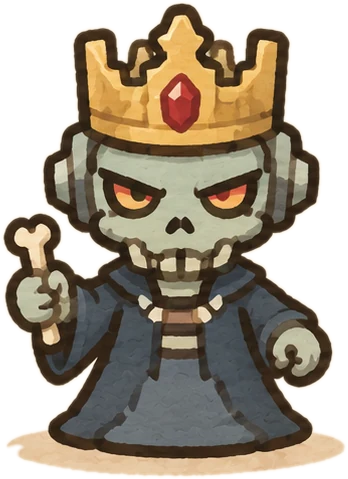
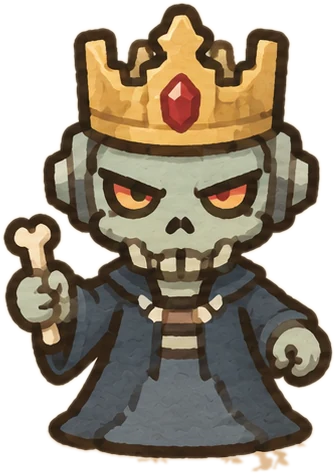
Site: bestiario mais limpo (uma fileira de pixel art, monstros sem sombra bege, menos espaco)
Claude-Session: https://claude.ai/code/session_01UuVMLphjp9wAN4kHUYy4Rb

diff --git a/index.html b/index.html
@@ -31,7 +31,7 @@
 <link rel="stylesheet" href="/fonts/fonts2.css">
 <link rel="stylesheet" href="/fonts/patrick-hand.css">
 <link rel="stylesheet" href="/site.css">
-<link rel="stylesheet" href="/home.css?v=51">
+<link rel="stylesheet" href="/home.css?v=52">
 <script type="application/ld+json">[{"@context": "https://schema.org", "@type": "SoftwareApplication", "name": "Dungeonlog", "applicationCategory": "LifestyleApplication", "operatingSystem": "Android", "description": "Todo dia aparece um monstro que só cai se você concluir as tarefas. Ganhe XP, moedas e equipamentos e suba de nível. Plano grátis, disponível no Android.", "inLanguage": "pt-BR", "url": "https://dungeonlog.weberlabs.com.br/", "image": "https://dungeonlog.weberlabs.com.br/img/og-pt.jpg", "offers": {"@type": "Offer", "price": "0", "priceCurrency": "BRL"}, "publisher": {"@type": "Organization", "name": "Weberlabs", "url": "https://dungeonlog.weberlabs.com.br/"}}, {"@context": "https://schema.org", "@type": "FAQPage", "mainEntity": [{"@type": "Question", "name": "O que é o Dungeonlog?", "acceptedAnswer": {"@type": "Answer", "text": "É um app de tarefas com tema de RPG. Você cria a lista do dia, e cada tarefa concluída rende XP, moedas e equipamentos para o seu herói. Todo dia há um monstro que só é derrotado quando todas as tarefas do dia estão concluídas."}}, {"@type": "Question", "name": "Como funciona o monstro do dia?", "acceptedAnswer": {"@type": "Answer", "text": "Cada dia aparece um monstro. Se você conclui todas as tarefas do dia, ele cai e você vence o dia. Se sobrar tarefa, ele foge e o dia não conta. É um jeito de transformar a lista em um desafio com começo, meio e fim."}}, {"@type": "Question", "name": "O Dungeonlog é grátis?", "acceptedAnswer": {"@type": "Answer", "text": "Há um plano gratuito e um plano PRO opcional. O plano gratuito tem limites em alguns recursos, como temas, estatísticas e quantidade de tarefas. O PRO libera tudo e custa R$ 17,90 por mês, R$ 89,90 por ano ou R$ 199,90 uma única vez (vitalício). O plano anual pode ter 7 dias de teste grátis pela Google Play."}}, {"@type": "Question", "name": "Em quais dispositivos funciona?", "acceptedAnswer": {"@type": "Answer", "text": "O app para Android está disponível na Google Play. Ainda não existe app nativo para iPhone."}}, {"@type": "Question", "name": "Como o Dungeonlog é diferente do Habitica?", "acceptedAnswer": {"@type": "Answer", "text": "O Habitica é um app consolidado e gratuito (com assinatura opcional), com grupos e missões em equipe. O Dungeonlog é mais simples e focado: um monstro por dia que depende de concluir as tarefas do dia, loja diária e visual em pixel art. Se você quer comunidade e missões em grupo, o Habitica pode servir melhor. Se quer algo direto, vale testar o Dungeonlog."}}, {"@type": "Question", "name": "Dá para usar para estudar?", "acceptedAnswer": {"@type": "Answer", "text": "Dá para organizar tarefas de estudo, como exercícios, revisões e leituras. Ele não é uma plataforma de conteúdo nem um cronograma de matérias: é um gerenciador de tarefas com recompensa."}}, {"@type": "Question", "name": "Preciso criar uma conta?", "acceptedAnswer": {"@type": "Answer", "text": "Não precisa. Você pode entrar como convidado e começar na hora, sem cadastro; nesse modo o progresso fica salvo só neste aparelho. Se criar uma conta com Google ou e-mail, o progresso fica guardado e funciona em mais de um aparelho, e o que você fez como convidado é levado para a conta. Você pode excluir sua conta e seus dados quando quiser."}}, {"@type": "Question", "name": "E os meus dados?", "acceptedAnswer": {"@type": "Answer", "text": "Veja a Política de Privacidade e os Termos de Uso abaixo. A página de exclusão de conta explica como apagar os seus dados."}}]}]</script>
 </head>
 <body>
@@ -96,10 +96,9 @@
 
 <section class="bestiary" aria-labelledby="bst">
   <div class="wrapL"><h2 id="bst">63 monstros esperando por você</h2><p class="sub">Um deles aparece a cada dia. Quanto mais você vence, mais do bestiário você descobre.</p></div>
-  <div class="bst-row" aria-hidden="true"><img src="/img/art/m-esqueleto.webp" width="348" height="479" alt="" loading="lazy" decoding="async"><img src="/img/art/m-mimico.webp" width="408" height="384" alt="" loading="lazy" decoding="async"><img src="/img/art/m-aranha.webp" width="437" height="477" alt="" loading="lazy" decoding="async"><img src="/img/art/m-goblin.webp" width="384" height="418" alt="" loading="lazy" decoding="async"><img src="/img/art/m-fantasma.webp" width="404" height="433" alt="" loading="lazy" decoding="async"></div>
+  <div class="bst-row" aria-hidden="true"><img src="/img/art/m-esqueleto.webp" width="336" height="474" alt="" loading="lazy" decoding="async"><img src="/img/art/m-mimico.webp" width="399" height="362" alt="" loading="lazy" decoding="async"><img src="/img/art/m-aranha.webp" width="437" height="465" alt="" loading="lazy" decoding="async"><img src="/img/art/m-goblin.webp" width="384" height="405" alt="" loading="lazy" decoding="async"><img src="/img/art/m-fantasma.webp" width="392" height="404" alt="" loading="lazy" decoding="async"></div>
   <p class="bst-cap wrapL" style="text-align:center">No app, eles aparecem em pixel art. Aqui, em desenho.</p>
   <div class="strip " aria-hidden="true"><div class="shift" data-sx="0.35"><div class="track "><i style="--i:21"></i><i style="--i:31"></i><i style="--i:20"></i><i style="--i:46"></i><i style="--i:8"></i><i style="--i:47"></i><i style="--i:41"></i><i style="--i:52"></i><i style="--i:26"></i><i style="--i:50"></i><i style="--i:13"></i><i style="--i:17"></i><i style="--i:58"></i><i style="--i:22"></i><i style="--i:53"></i><i style="--i:15"></i><i style="--i:42"></i><i style="--i:27"></i><i style="--i:16"></i><i style="--i:57"></i><i style="--i:18"></i><i style="--i:23"></i><i style="--i:60"></i><i style="--i:14"></i><i style="--i:24"></i><i style="--i:48"></i><i style="--i:43"></i><i style="--i:7"></i><i style="--i:36"></i><i style="--i:45"></i><i style="--i:1"></i><i style="--i:3"></i><i style="--i:4"></i><i style="--i:33"></i><i style="--i:0"></i><i style="--i:10"></i><i style="--i:44"></i><i style="--i:25"></i><i style="--i:38"></i><i style="--i:2"></i><i style="--i:34"></i><i style="--i:5"></i><i style="--i:9"></i><i style="--i:19"></i><i style="--i:56"></i><i style="--i:6"></i><i style="--i:51"></i><i style="--i:39"></i><i style="--i:40"></i><i style="--i:30"></i><i style="--i:61"></i><i style="--i:11"></i><i style="--i:12"></i><i style="--i:37"></i><i style="--i:59"></i><i style="--i:32"></i><i style="--i:62"></i><i style="--i:29"></i><i style="--i:49"></i><i style="--i:54"></i><i style="--i:35"></i><i style="--i:55"></i><i style="--i:28"></i><i style="--i:21"></i><i style="--i:31"></i><i style="--i:20"></i><i style="--i:46"></i><i style="--i:8"></i><i style="--i:47"></i><i style="--i:41"></i><i style="--i:52"></i><i style="--i:26"></i><i style="--i:50"></i><i style="--i:13"></i><i style="--i:17"></i><i style="--i:58"></i><i style="--i:22"></i><i style="--i:53"></i><i style="--i:15"></i><i style="--i:42"></i><i style="--i:27"></i><i style="--i:16"></i><i style="--i:57"></i><i style="--i:18"></i><i style="--i:23"></i><i style="--i:60"></i><i style="--i:14"></i><i style="--i:24"></i><i style="--i:48"></i><i style="--i:43"></i><i style="--i:7"></i><i style="--i:36"></i><i style="--i:45"></i><i style="--i:1"></i><i style="--i:3"></i><i style="--i:4"></i><i style="--i:33"></i><i style="--i:0"></i><i style="--i:10"></i><i style="--i:44"></i><i style="--i:25"></i><i style="--i:38"></i><i style="--i:2"></i><i style="--i:34"></i><i style="--i:5"></i><i style="--i:9"></i><i style="--i:19"></i><i style="--i:56"></i><i style="--i:6"></i><i style="--i:51"></i><i style="--i:39"></i><i style="--i:40"></i><i style="--i:30"></i><i style="--i:61"></i><i style="--i:11"></i><i style="--i:12"></i><i style="--i:37"></i><i style="--i:59"></i><i style="--i:32"></i><i style="--i:62"></i><i style="--i:29"></i><i style="--i:49"></i><i style="--i:54"></i><i style="--i:35"></i><i style="--i:55"></i><i style="--i:28"></i></div></div></div>
-  <div class="strip s2" aria-hidden="true"><div class="shift" data-sx="-0.35"><div class="track rev"><i style="--i:11"></i><i style="--i:28"></i><i style="--i:8"></i><i style="--i:29"></i><i style="--i:9"></i><i style="--i:23"></i><i style="--i:2"></i><i style="--i:32"></i><i style="--i:27"></i><i style="--i:47"></i><i style="--i:39"></i><i style="--i:50"></i><i style="--i:55"></i><i style="--i:10"></i><i style="--i:20"></i><i style="--i:45"></i><i style="--i:35"></i><i style="--i:16"></i><i style="--i:44"></i><i style="--i:56"></i><i style="--i:38"></i><i style="--i:34"></i><i style="--i:40"></i><i style="--i:15"></i><i style="--i:14"></i><i style="--i:51"></i><i style="--i:33"></i><i style="--i:46"></i><i style="--i:22"></i><i style="--i:31"></i><i style="--i:41"></i><i style="--i:7"></i><i style="--i:42"></i><i style="--i:59"></i><i style="--i:37"></i><i style="--i:19"></i><i style="--i:5"></i><i style="--i:21"></i><i style="--i:17"></i><i style="--i:12"></i><i style="--i:60"></i><i style="--i:52"></i><i style="--i:26"></i><i style="--i:57"></i><i style="--i:53"></i><i style="--i:30"></i><i style="--i:3"></i><i style="--i:48"></i><i style="--i:13"></i><i style="--i:0"></i><i style="--i:43"></i><i style="--i:62"></i><i style="--i:61"></i><i style="--i:24"></i><i style="--i:18"></i><i style="--i:54"></i><i style="--i:58"></i><i style="--i:25"></i><i style="--i:6"></i><i style="--i:49"></i><i style="--i:36"></i><i style="--i:4"></i><i style="--i:1"></i><i style="--i:11"></i><i style="--i:28"></i><i style="--i:8"></i><i style="--i:29"></i><i style="--i:9"></i><i style="--i:23"></i><i style="--i:2"></i><i style="--i:32"></i><i style="--i:27"></i><i style="--i:47"></i><i style="--i:39"></i><i style="--i:50"></i><i style="--i:55"></i><i style="--i:10"></i><i style="--i:20"></i><i style="--i:45"></i><i style="--i:35"></i><i style="--i:16"></i><i style="--i:44"></i><i style="--i:56"></i><i style="--i:38"></i><i style="--i:34"></i><i style="--i:40"></i><i style="--i:15"></i><i style="--i:14"></i><i style="--i:51"></i><i style="--i:33"></i><i style="--i:46"></i><i style="--i:22"></i><i style="--i:31"></i><i style="--i:41"></i><i style="--i:7"></i><i style="--i:42"></i><i style="--i:59"></i><i style="--i:37"></i><i style="--i:19"></i><i style="--i:5"></i><i style="--i:21"></i><i style="--i:17"></i><i style="--i:12"></i><i style="--i:60"></i><i style="--i:52"></i><i style="--i:26"></i><i style="--i:57"></i><i style="--i:53"></i><i style="--i:30"></i><i style="--i:3"></i><i style="--i:48"></i><i style="--i:13"></i><i style="--i:0"></i><i style="--i:43"></i><i style="--i:62"></i><i style="--i:61"></i><i style="--i:24"></i><i style="--i:18"></i><i style="--i:54"></i><i style="--i:58"></i><i style="--i:25"></i><i style="--i:6"></i><i style="--i:49"></i><i style="--i:36"></i><i style="--i:4"></i><i style="--i:1"></i></div></div></div>
 </section>
 
 <section class="block alt" aria-labelledby="gal">

diff --git a/en/index.html b/en/index.html
@@ -31,7 +31,7 @@
 <link rel="stylesheet" href="/fonts/fonts2.css">
 <link rel="stylesheet" href="/fonts/patrick-hand.css">
 <link rel="stylesheet" href="/site.css">
-<link rel="stylesheet" href="/home.css?v=51">
+<link rel="stylesheet" href="/home.css?v=52">
 <script type="application/ld+json">[{"@context": "https://schema.org", "@type": "SoftwareApplication", "name": "Dungeonlog", "applicationCategory": "LifestyleApplication", "operatingSystem": "Android", "description": "Every day a monster appears and only falls if you finish your tasks. Earn XP, coins and gear and level up. Free plan, available on Android.", "inLanguage": "en", "url": "https://dungeonlog.weberlabs.com.br/en/", "image": "https://dungeonlog.weberlabs.com.br/img/og-en.jpg", "offers": {"@type": "Offer", "price": "0", "priceCurrency": "BRL"}, "publisher": {"@type": "Organization", "name": "Weberlabs", "url": "https://dungeonlog.weberlabs.com.br/"}}, {"@context": "https://schema.org", "@type": "FAQPage", "mainEntity": [{"@type": "Question", "name": "What is Dungeonlog?", "acceptedAnswer": {"@type": "Answer", "text": "It's a to-do app with an RPG theme. You build the day's list, and every finished task earns XP, coins and gear for your hero. Every day there is a monster that is only defeated when all the day's tasks are done."}}, {"@type": "Question", "name": "How does the daily monster work?", "acceptedAnswer": {"@type": "Answer", "text": "A monster appears each day. If you finish all the day's tasks, it falls and you win the day. If a task is left, it escapes and the day doesn't count. It turns your list into a challenge with a start and an end."}}, {"@type": "Question", "name": "Is Dungeonlog free?", "acceptedAnswer": {"@type": "Answer", "text": "There is a free plan and an optional PRO plan. The free plan has limits on some features, such as themes, stats and number of tasks. PRO unlocks everything and costs R$ 17.90 per month, R$ 89.90 per year or R$ 199.90 once (lifetime), in Brazilian reais; prices may vary by country in the store. The annual plan may include a 7-day free trial through Google Play."}}, {"@type": "Question", "name": "Which devices does it work on?", "acceptedAnswer": {"@type": "Answer", "text": "The Android app is available on Google Play. There is no native iPhone app yet."}}, {"@type": "Question", "name": "How is Dungeonlog different from Habitica?", "acceptedAnswer": {"@type": "Answer", "text": "Habitica is an established, free app (with an optional subscription) with parties and group quests. Dungeonlog is simpler and more focused: one monster per day that depends on finishing the day's tasks, a daily shop and pixel-art visuals. If you want community and group quests, Habitica may suit you better. If you want something direct, give Dungeonlog a try."}}, {"@type": "Question", "name": "Can I use it to study?", "acceptedAnswer": {"@type": "Answer", "text": "You can organize study tasks, such as exercises, reviews and readings. It is not a content platform or a subject schedule: it is a task manager with rewards."}}, {"@type": "Question", "name": "Do I need an account?", "acceptedAnswer": {"@type": "Answer", "text": "No. You can continue as a guest and start right away, with no sign-up; in that mode your progress is saved only on this device. If you create an account with Google or email, your progress is kept safe and works on more than one device, and what you did as a guest is carried over to the account. You can delete your account and data at any time."}}, {"@type": "Question", "name": "What about my data?", "acceptedAnswer": {"@type": "Answer", "text": "See the Privacy Policy and Terms of Use below. The account deletion page explains how to erase your data."}}]}]</script>
 </head>
 <body>
@@ -96,10 +96,9 @@
 
 <section class="bestiary" aria-labelledby="bst">
   <div class="wrapL"><h2 id="bst">63 monsters are waiting for you</h2><p class="sub">One shows up each day. The more you win, the more of the bestiary you discover.</p></div>
-  <div class="bst-row" aria-hidden="true"><img src="/img/art/m-esqueleto.webp" width="348" height="479" alt="" loading="lazy" decoding="async"><img src="/img/art/m-mimico.webp" width="408" height="384" alt="" loading="lazy" decoding="async"><img src="/img/art/m-aranha.webp" width="437" height="477" alt="" loading="lazy" decoding="async"><img src="/img/art/m-goblin.webp" width="384" height="418" alt="" loading="lazy" decoding="async"><img src="/img/art/m-fantasma.webp" width="404" height="433" alt="" loading="lazy" decoding="async"></div>
+  <div class="bst-row" aria-hidden="true"><img src="/img/art/m-esqueleto.webp" width="336" height="474" alt="" loading="lazy" decoding="async"><img src="/img/art/m-mimico.webp" width="399" height="362" alt="" loading="lazy" decoding="async"><img src="/img/art/m-aranha.webp" width="437" height="465" alt="" loading="lazy" decoding="async"><img src="/img/art/m-goblin.webp" width="384" height="405" alt="" loading="lazy" decoding="async"><img src="/img/art/m-fantasma.webp" width="392" height="404" alt="" loading="lazy" decoding="async"></div>
   <p class="bst-cap wrapL" style="text-align:center">In the app they show up as pixel art. Here, as drawings.</p>
   <div class="strip " aria-hidden="true"><div class="shift" data-sx="0.35"><div class="track "><i style="--i:21"></i><i style="--i:31"></i><i style="--i:20"></i><i style="--i:46"></i><i style="--i:8"></i><i style="--i:47"></i><i style="--i:41"></i><i style="--i:52"></i><i style="--i:26"></i><i style="--i:50"></i><i style="--i:13"></i><i style="--i:17"></i><i style="--i:58"></i><i style="--i:22"></i><i style="--i:53"></i><i style="--i:15"></i><i style="--i:42"></i><i style="--i:27"></i><i style="--i:16"></i><i style="--i:57"></i><i style="--i:18"></i><i style="--i:23"></i><i style="--i:60"></i><i style="--i:14"></i><i style="--i:24"></i><i style="--i:48"></i><i style="--i:43"></i><i style="--i:7"></i><i style="--i:36"></i><i style="--i:45"></i><i style="--i:1"></i><i style="--i:3"></i><i style="--i:4"></i><i style="--i:33"></i><i style="--i:0"></i><i style="--i:10"></i><i style="--i:44"></i><i style="--i:25"></i><i style="--i:38"></i><i style="--i:2"></i><i style="--i:34"></i><i style="--i:5"></i><i style="--i:9"></i><i style="--i:19"></i><i style="--i:56"></i><i style="--i:6"></i><i style="--i:51"></i><i style="--i:39"></i><i style="--i:40"></i><i style="--i:30"></i><i style="--i:61"></i><i style="--i:11"></i><i style="--i:12"></i><i style="--i:37"></i><i style="--i:59"></i><i style="--i:32"></i><i style="--i:62"></i><i style="--i:29"></i><i style="--i:49"></i><i style="--i:54"></i><i style="--i:35"></i><i style="--i:55"></i><i style="--i:28"></i><i style="--i:21"></i><i style="--i:31"></i><i style="--i:20"></i><i style="--i:46"></i><i style="--i:8"></i><i style="--i:47"></i><i style="--i:41"></i><i style="--i:52"></i><i style="--i:26"></i><i style="--i:50"></i><i style="--i:13"></i><i style="--i:17"></i><i style="--i:58"></i><i style="--i:22"></i><i style="--i:53"></i><i style="--i:15"></i><i style="--i:42"></i><i style="--i:27"></i><i style="--i:16"></i><i style="--i:57"></i><i style="--i:18"></i><i style="--i:23"></i><i style="--i:60"></i><i style="--i:14"></i><i style="--i:24"></i><i style="--i:48"></i><i style="--i:43"></i><i style="--i:7"></i><i style="--i:36"></i><i style="--i:45"></i><i style="--i:1"></i><i style="--i:3"></i><i style="--i:4"></i><i style="--i:33"></i><i style="--i:0"></i><i style="--i:10"></i><i style="--i:44"></i><i style="--i:25"></i><i style="--i:38"></i><i style="--i:2"></i><i style="--i:34"></i><i style="--i:5"></i><i style="--i:9"></i><i style="--i:19"></i><i style="--i:56"></i><i style="--i:6"></i><i style="--i:51"></i><i style="--i:39"></i><i style="--i:40"></i><i style="--i:30"></i><i style="--i:61"></i><i style="--i:11"></i><i style="--i:12"></i><i style="--i:37"></i><i style="--i:59"></i><i style="--i:32"></i><i style="--i:62"></i><i style="--i:29"></i><i style="--i:49"></i><i style="--i:54"></i><i style="--i:35"></i><i style="--i:55"></i><i style="--i:28"></i></div></div></div>
-  <div class="strip s2" aria-hidden="true"><div class="shift" data-sx="-0.35"><div class="track rev"><i style="--i:11"></i><i style="--i:28"></i><i style="--i:8"></i><i style="--i:29"></i><i style="--i:9"></i><i style="--i:23"></i><i style="--i:2"></i><i style="--i:32"></i><i style="--i:27"></i><i style="--i:47"></i><i style="--i:39"></i><i style="--i:50"></i><i style="--i:55"></i><i style="--i:10"></i><i style="--i:20"></i><i style="--i:45"></i><i style="--i:35"></i><i style="--i:16"></i><i style="--i:44"></i><i style="--i:56"></i><i style="--i:38"></i><i style="--i:34"></i><i style="--i:40"></i><i style="--i:15"></i><i style="--i:14"></i><i style="--i:51"></i><i style="--i:33"></i><i style="--i:46"></i><i style="--i:22"></i><i style="--i:31"></i><i style="--i:41"></i><i style="--i:7"></i><i style="--i:42"></i><i style="--i:59"></i><i style="--i:37"></i><i style="--i:19"></i><i style="--i:5"></i><i style="--i:21"></i><i style="--i:17"></i><i style="--i:12"></i><i style="--i:60"></i><i style="--i:52"></i><i style="--i:26"></i><i style="--i:57"></i><i style="--i:53"></i><i style="--i:30"></i><i style="--i:3"></i><i style="--i:48"></i><i style="--i:13"></i><i style="--i:0"></i><i style="--i:43"></i><i style="--i:62"></i><i style="--i:61"></i><i style="--i:24"></i><i style="--i:18"></i><i style="--i:54"></i><i style="--i:58"></i><i style="--i:25"></i><i style="--i:6"></i><i style="--i:49"></i><i style="--i:36"></i><i style="--i:4"></i><i style="--i:1"></i><i style="--i:11"></i><i style="--i:28"></i><i style="--i:8"></i><i style="--i:29"></i><i style="--i:9"></i><i style="--i:23"></i><i style="--i:2"></i><i style="--i:32"></i><i style="--i:27"></i><i style="--i:47"></i><i style="--i:39"></i><i style="--i:50"></i><i style="--i:55"></i><i style="--i:10"></i><i style="--i:20"></i><i style="--i:45"></i><i style="--i:35"></i><i style="--i:16"></i><i style="--i:44"></i><i style="--i:56"></i><i style="--i:38"></i><i style="--i:34"></i><i style="--i:40"></i><i style="--i:15"></i><i style="--i:14"></i><i style="--i:51"></i><i style="--i:33"></i><i style="--i:46"></i><i style="--i:22"></i><i style="--i:31"></i><i style="--i:41"></i><i style="--i:7"></i><i style="--i:42"></i><i style="--i:59"></i><i style="--i:37"></i><i style="--i:19"></i><i style="--i:5"></i><i style="--i:21"></i><i style="--i:17"></i><i style="--i:12"></i><i style="--i:60"></i><i style="--i:52"></i><i style="--i:26"></i><i style="--i:57"></i><i style="--i:53"></i><i style="--i:30"></i><i style="--i:3"></i><i style="--i:48"></i><i style="--i:13"></i><i style="--i:0"></i><i style="--i:43"></i><i style="--i:62"></i><i style="--i:61"></i><i style="--i:24"></i><i style="--i:18"></i><i style="--i:54"></i><i style="--i:58"></i><i style="--i:25"></i><i style="--i:6"></i><i style="--i:49"></i><i style="--i:36"></i><i style="--i:4"></i><i style="--i:1"></i></div></div></div>
 </section>
 
 <section class="block alt" aria-labelledby="gal">

diff --git a/home.css b/home.css
@@ -117,23 +117,23 @@ h2::after{ content:""; display:block; width:150px; height:12px; margin-top:10px;
 @media (max-width:820px){ .steps,.features,.who{ grid-template-columns:1fr; } section.block{ padding:62px 22px; } .steps .card, .features .feat{ --rot:0deg !important; } }
 
 /* ---------- bestiário: faixa escura (dungeon) com os monstros em pixel art, como no app ---------- */
-.bestiary{ position:relative; overflow:hidden; padding:78px 0 70px; background:var(--ink); color:var(--paper); text-align:center; border-block:3px solid var(--ink); }
+.bestiary{ position:relative; overflow:hidden; padding:70px 0 56px; background:var(--ink); color:var(--paper); text-align:center; border-block:3px solid var(--ink); }
 .bestiary h2{ color:var(--paper); }
 .bestiary .sub{ color:#d8c6a4; margin-left:auto; margin-right:auto; }
 .bestiary .wrapL{ padding:0 24px; }
-.bst-row{ margin:30px auto 6px; display:flex; flex-wrap:wrap; justify-content:center; align-items:flex-end; gap:6px 22px; max-width:1000px; padding:0 20px; }
-.bst-row img{ height:150px; width:auto; display:block; filter:drop-shadow(0 8px 0 rgba(0,0,0,.28)); transition:translate .3s cubic-bezier(.34,1.56,.64,1), rotate .3s cubic-bezier(.34,1.56,.64,1), scale .3s cubic-bezier(.34,1.56,.64,1); }
+.bst-row{ margin:34px auto 4px; display:flex; flex-wrap:wrap; justify-content:center; align-items:flex-end; gap:6px 22px; max-width:1000px; padding:0 20px; }
+.bst-row img{ height:150px; width:auto; display:block; filter:drop-shadow(0 10px 8px rgba(0,0,0,.35)); transition:translate .3s cubic-bezier(.34,1.56,.64,1), rotate .3s cubic-bezier(.34,1.56,.64,1), scale .3s cubic-bezier(.34,1.56,.64,1); }
 .bst-row img:hover{ translate:0 -10px; rotate:-4deg; scale:1.08; }
-.bst-cap{ margin-top:10px; font-size:.98rem; color:#d8c6a4; }
-.strip{ display:block; margin-top:26px; overflow:hidden; -webkit-mask-image:linear-gradient(90deg,transparent,#000 9%,#000 91%,transparent); mask-image:linear-gradient(90deg,transparent,#000 9%,#000 91%,transparent); }
+.bst-cap{ margin-top:14px; font-size:.92rem; color:#b9a782; }
+.strip{ display:block; margin-top:22px; opacity:.8; overflow:hidden; -webkit-mask-image:linear-gradient(90deg,transparent,#000 9%,#000 91%,transparent); mask-image:linear-gradient(90deg,transparent,#000 9%,#000 91%,transparent); }
 .strip.s2{ margin-top:12px; }
 .shift{ width:max-content; will-change:transform; }
-.track{ display:flex; gap:20px; width:max-content; padding-right:20px; animation:slide 100s linear infinite; }
+.track{ display:flex; gap:26px; width:max-content; padding-right:20px; animation:slide 100s linear infinite; }
 .track.rev{ animation-direction:reverse; animation-duration:130s; }
-.track i{ flex:0 0 auto; width:96px; height:96px; background:url(/img/bestiary.png) no-repeat; background-size:calc(63 * 96px) 96px; background-position:calc(var(--i) * -96px) 0; image-rendering:pixelated; }
+.track i{ flex:0 0 auto; width:80px; height:80px; background:url(/img/bestiary.png) no-repeat; background-size:calc(63 * 80px) 80px; background-position:calc(var(--i) * -80px) 0; image-rendering:pixelated; }
 .strip:hover .track{ animation-play-state:paused; }
 @keyframes slide{ to{ transform:translateX(-50%); } }
-@media (max-width:820px){ .track i{ width:72px; height:72px; background-size:calc(63 * 72px) 72px; background-position:calc(var(--i) * -72px) 0; } .bst-row img{ height:112px; } }
+@media (max-width:820px){ .track i{ width:64px; height:64px; background-size:calc(63 * 64px) 64px; background-position:calc(var(--i) * -64px) 0; } .bst-row img{ height:92px; } .bst-row{ gap:10px 14px; padding:0 14px; } }
 @media (prefers-reduced-motion:reduce){ .track{ animation:none !important; } }
 
 /* ---------- galeria de celulares ---------- */
